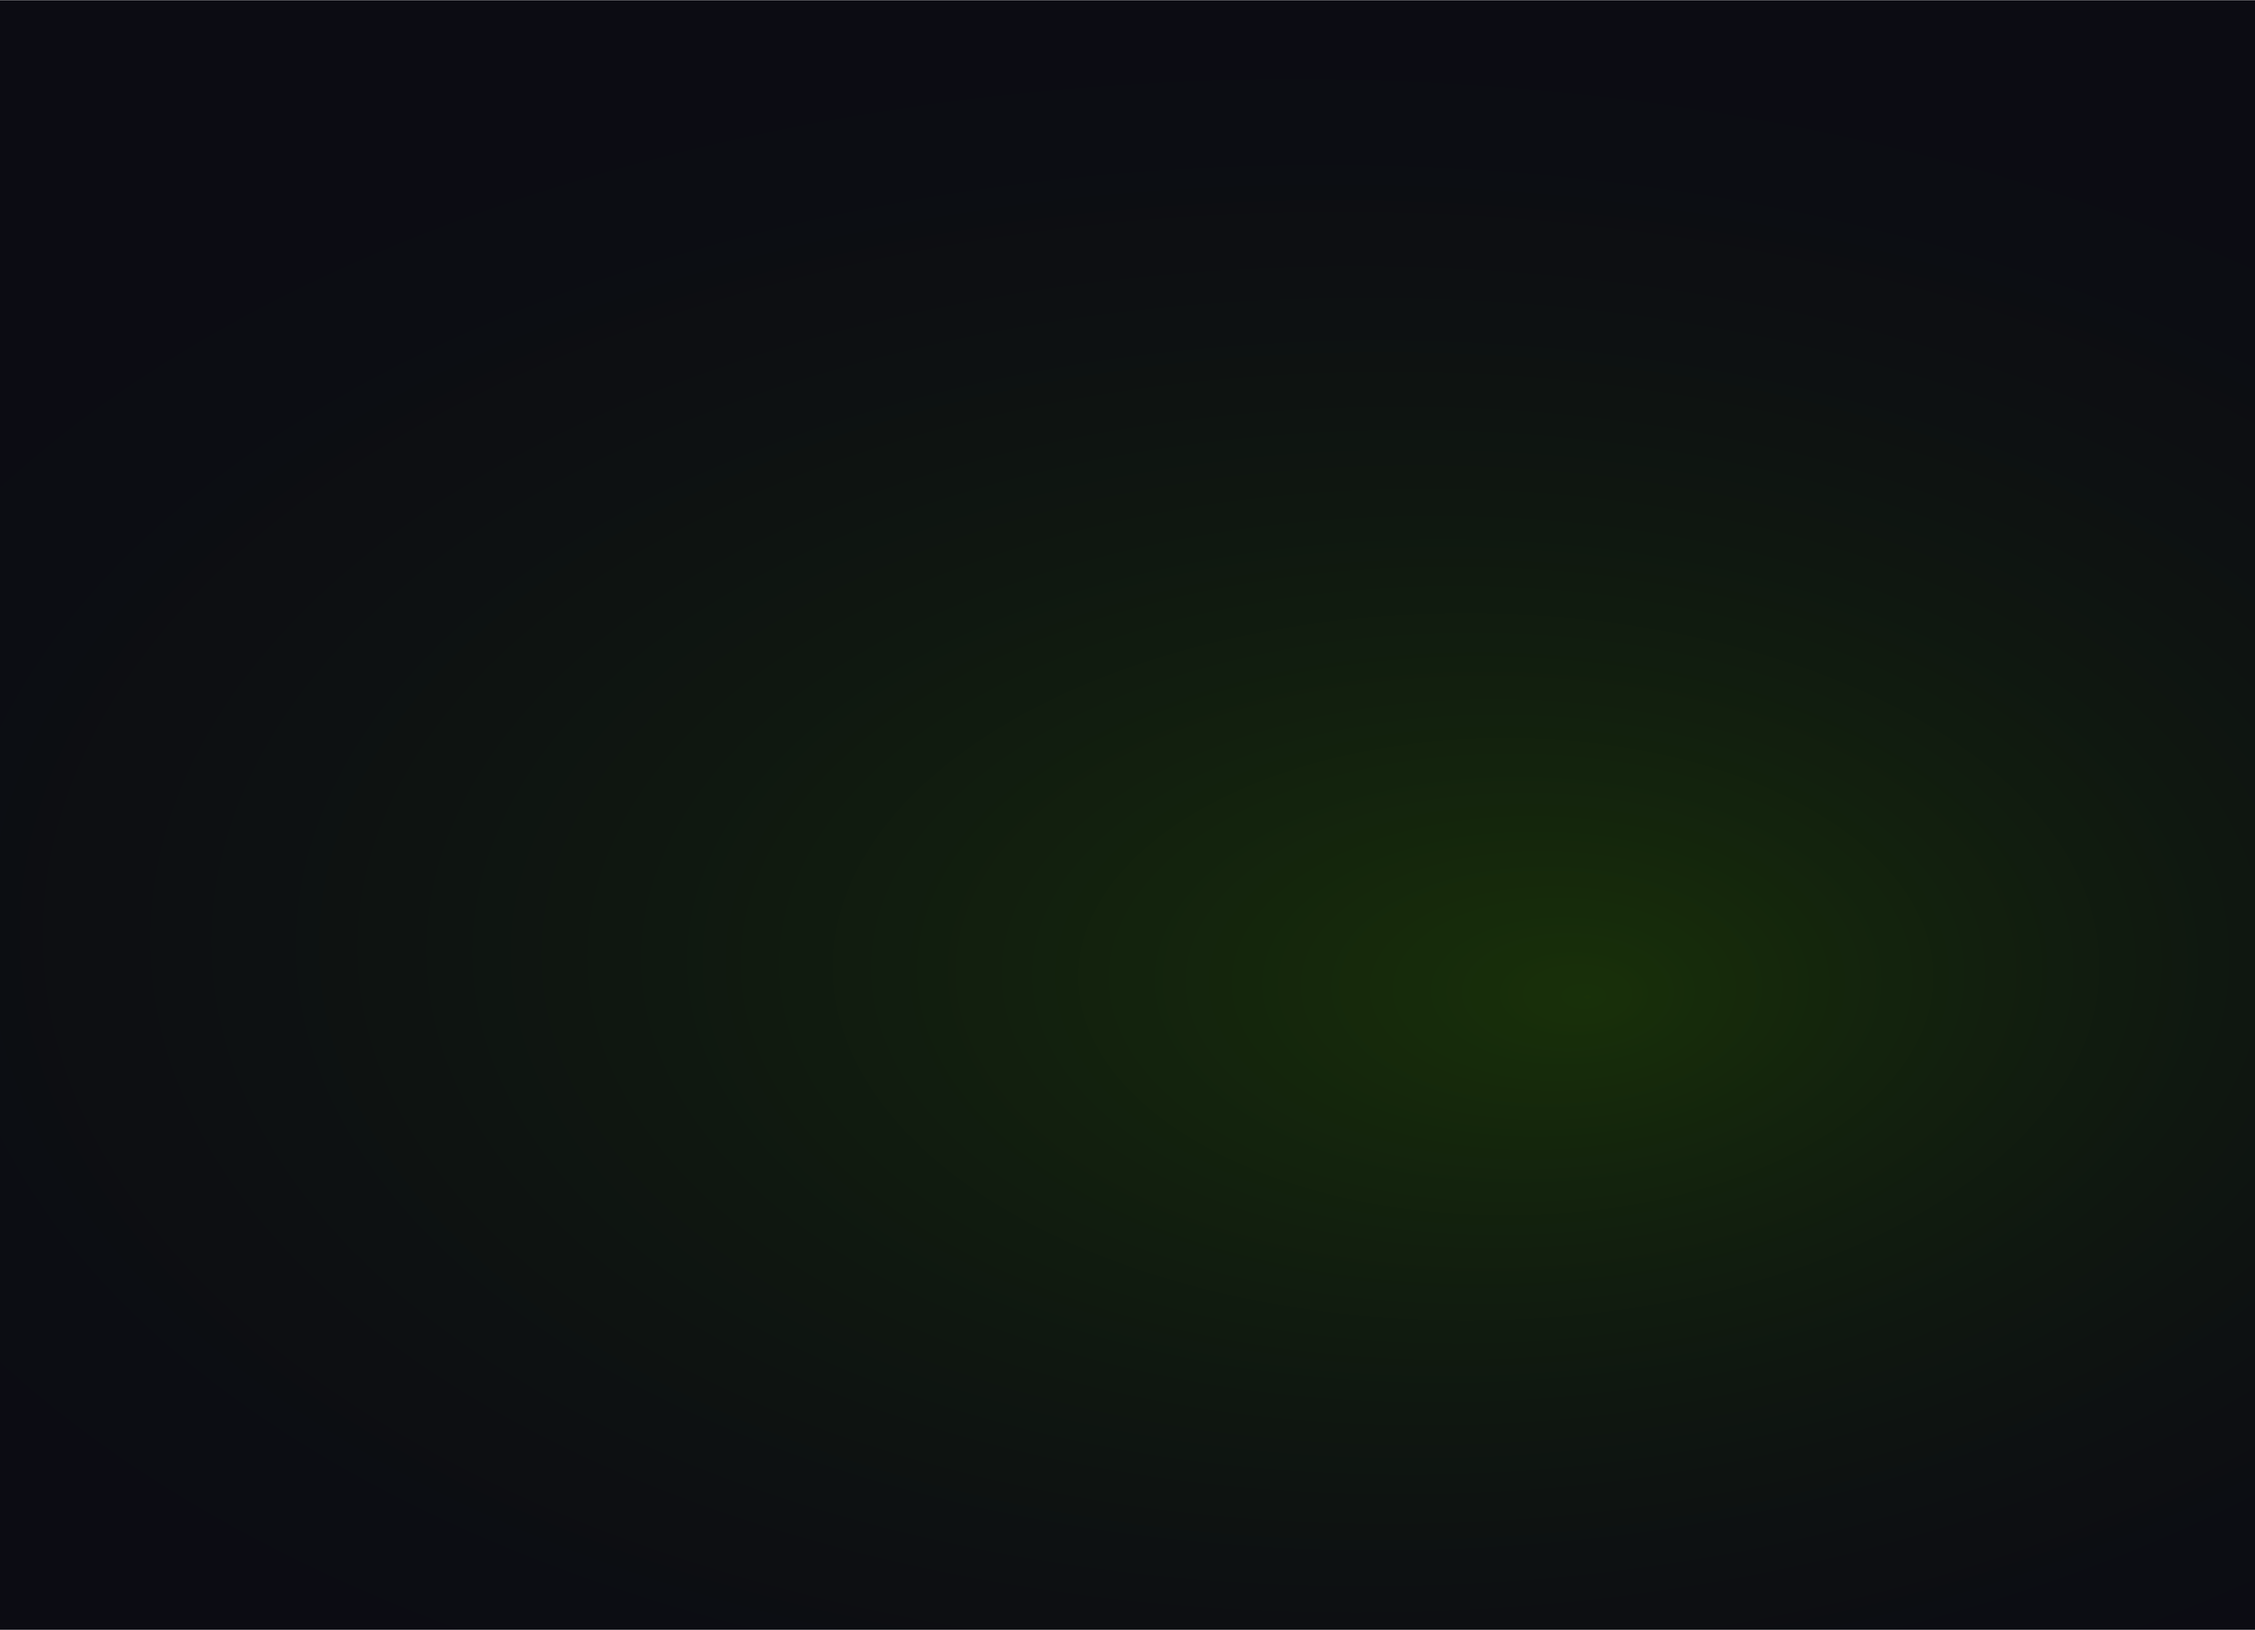
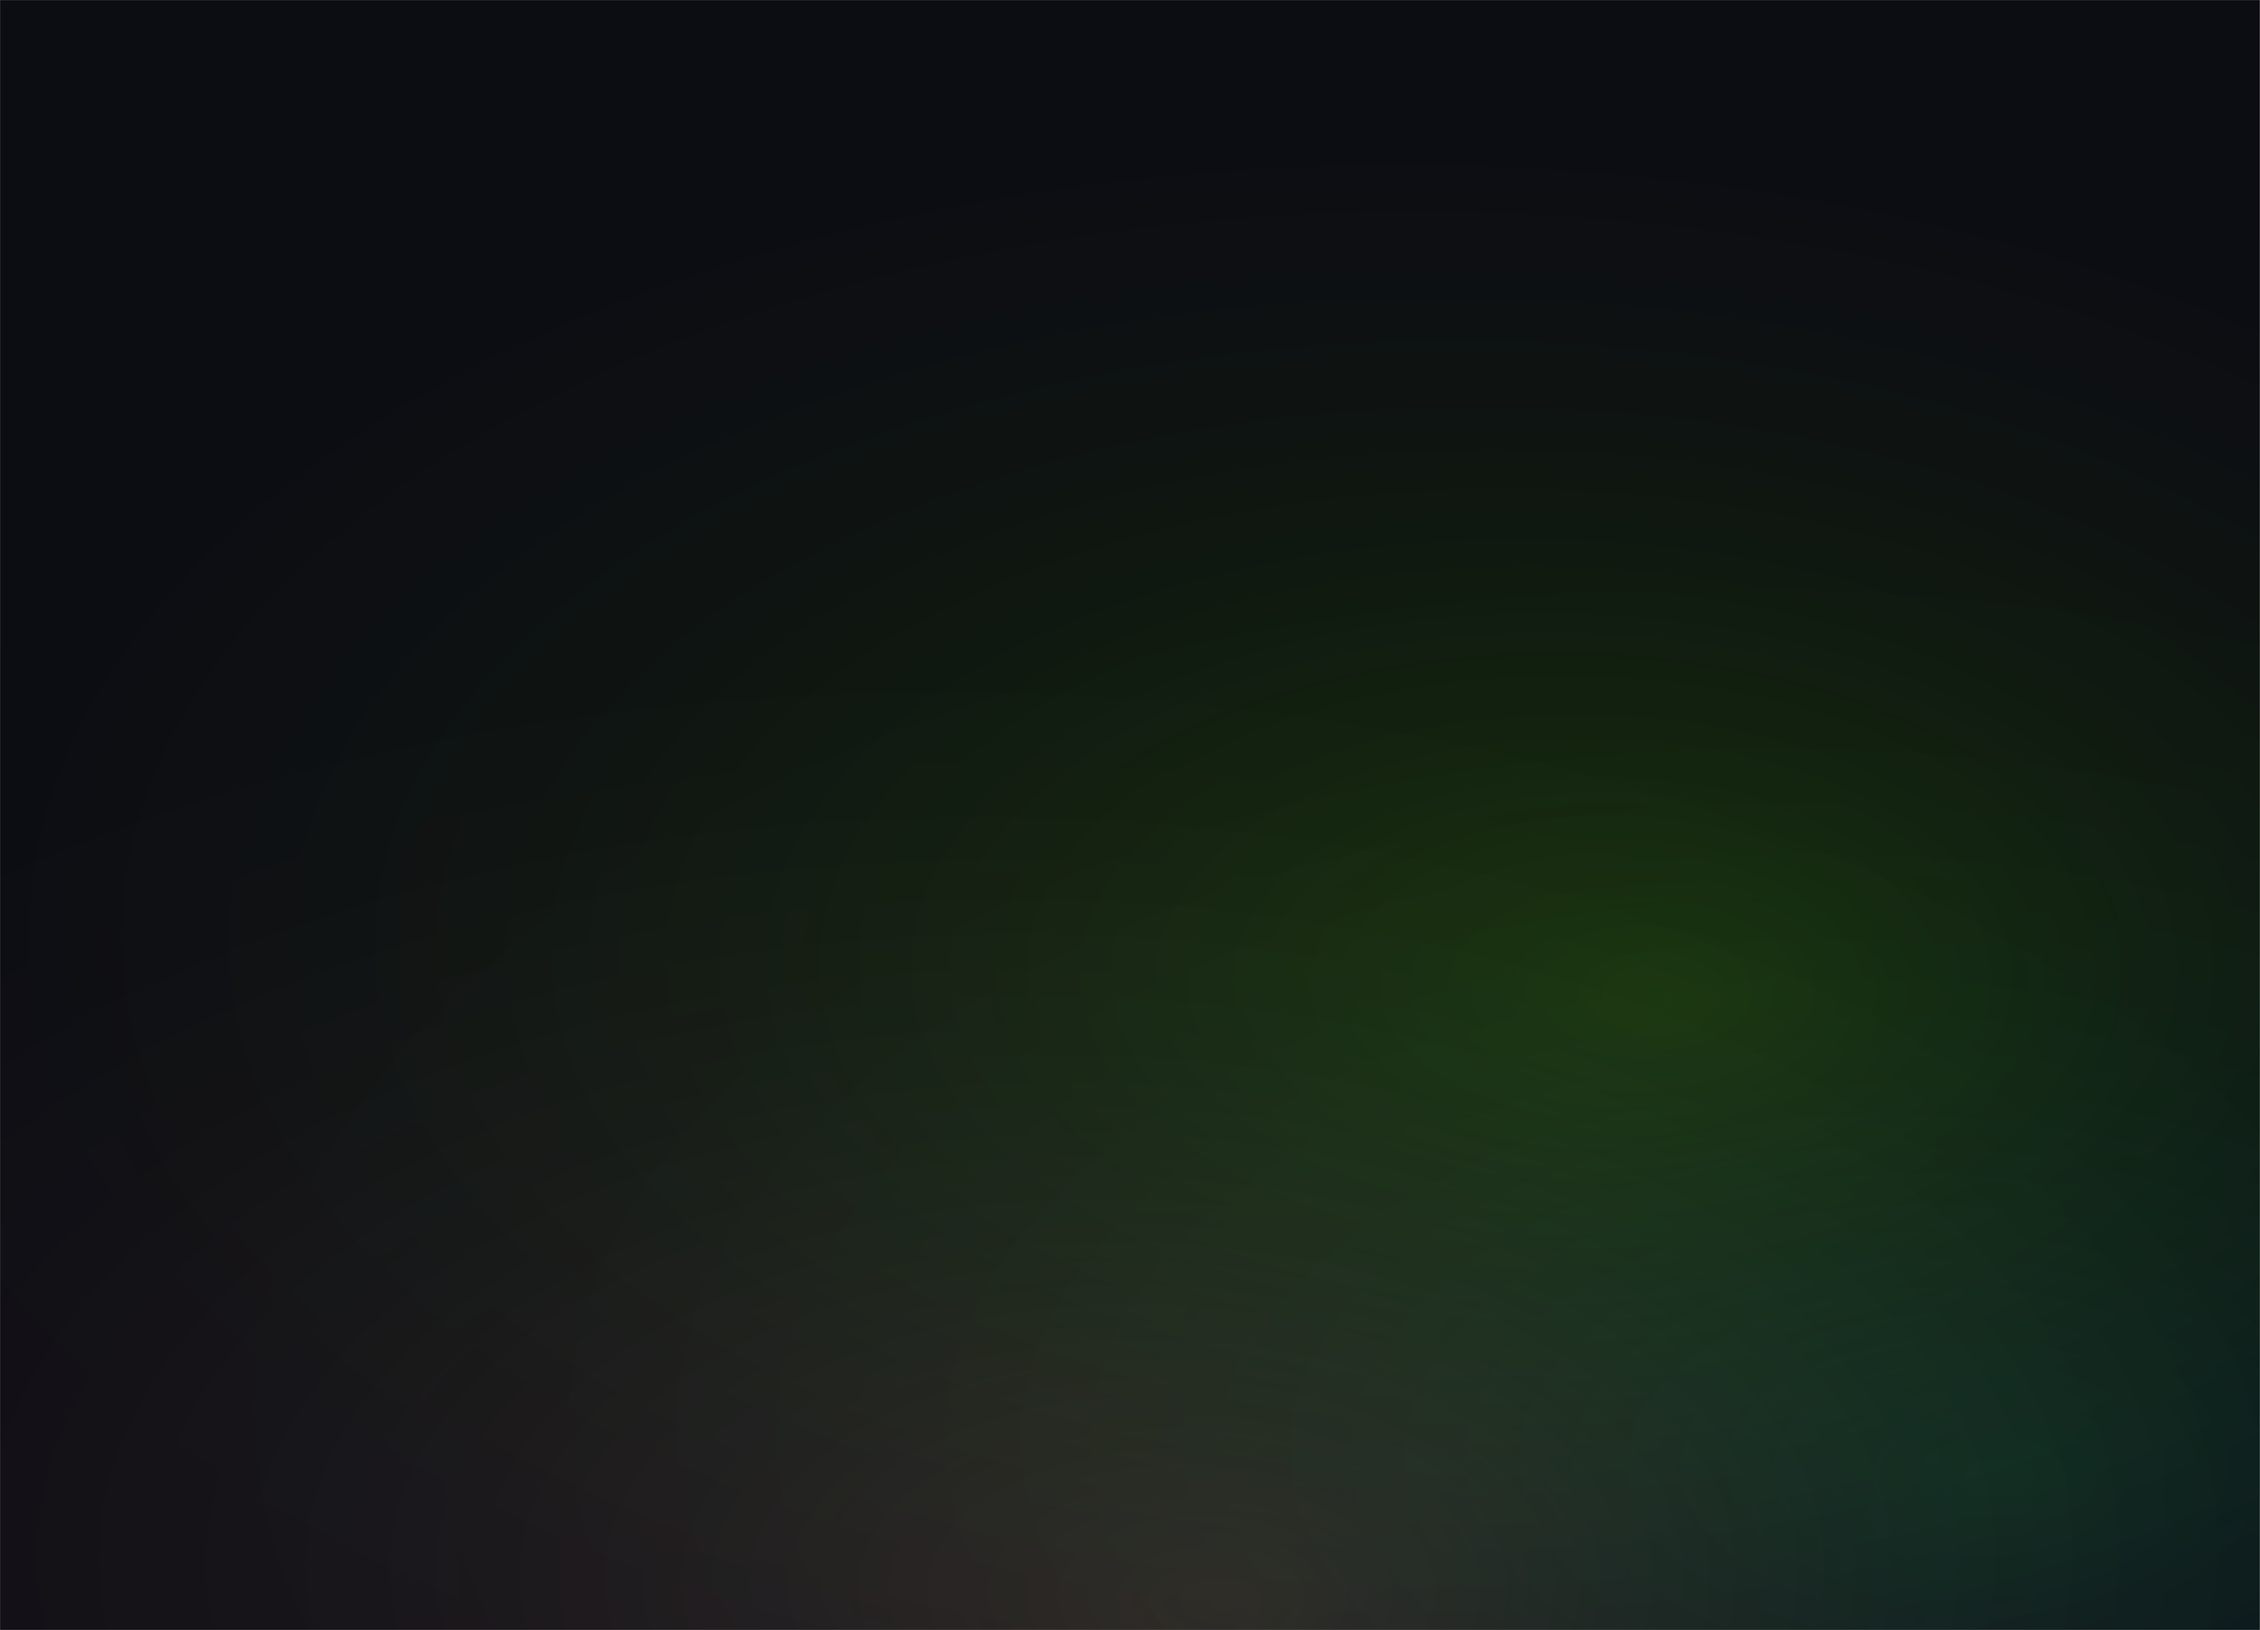
O nas - zmiany 17:53

Changed region(s): [[0.3744, 0.8091, 0.936, 1.0], [0.9984, 0.9959, 1.0, 1.0]]

diff --git a/src/pages/about.js b/src/pages/about.js
@@ -27,30 +27,32 @@ export default function Home() {
           <Navbar />
 
         <div className="container mx-auto px-4">
-          <div className="py-16 rounded-3xl" style={{ backgroundImage: `url(${aboutBG})`, backgroundRepeat: "no-repeat", backgroundPosition: "center center", backgroundColor: "#0c0c14", backgroundSize: "100% auto" }}>
-          
-            <div className="mx-auto my-32 px-16 text-white text-center">
-              <p className="text-2xl">Poznaj nas</p>
-              <h1 className="mb-0 text-6xl font-bold">Jesteśmy, aby pomóc w rozwoju</h1>
-              <h1 className="mt-3 my-10 text-6xl font-bold">Twojego biznesu w sieci.</h1>
-            </div>
-
-            <div className="flex flex-row flex-wrap text-white py-32">
-              <div className="w-5/12">
-                <div className="px-16 py-10">
-                  <p className="text-2xl">Nic nadzwyczajnego, kilku młodych chłopaków, którzy przez parę lat doświadczeń, rozwijania własnych linii produktowych i dziesiątek godzin spędzonych na nauce systemów E-commerce chcą pomagać rozwijać się innym.</p>
-                </div>
-                <div className="mt-2 px-16 py-10">
-                  <h3 className="text-4xl font-bold">Łatwo, naturalnie i z ludzkim podejściem do innych.</h3>
-                </div>
+          <div className="rounded-3xl" style={{ backgroundImage: `url(${aboutBG})`, backgroundRepeat: "no-repeat", backgroundPosition: "bottom right", backgroundColor: "#0c0c14", backgroundSize: "100% auto" }}>
+            <div className="py-16">
+              
+              <div className="mx-auto my-32 px-16 text-white text-center">
+                <p className="text-2xl">Poznaj nas</p>
+                <h1 className="mb-0 text-6xl font-bold">Jesteśmy, aby pomóc w rozwoju</h1>
+                <h1 className="mt-3 my-10 text-6xl font-bold">Twojego biznesu w sieci.</h1>
               </div>
-              <div className="w-2/12"></div>
-              <div className="w-4/12">
-                  <img src={`${plane}`} width="100%" />
-              </div>
-              <div className="w-1/12"></div>
-            </div>
 
+              <div className="flex flex-row flex-wrap text-white py-32">
+                <div className="w-5/12">
+                  <div className="pl-16 py-10">
+                    <p className="text-2xl">Nic nadzwyczajnego, kilku młodych chłopaków, którzy przez parę lat doświadczeń, rozwijania własnych linii produktowych i dziesiątek godzin spędzonych na nauce systemów E-commerce chcą pomagać rozwijać się innym.</p>
+                  </div>
+                  <div className="mt-2 pl-16 py-10">
+                    <h3 className="text-4xl font-bold">Łatwo, naturalnie i z ludzkim podejściem do innych.</h3>
+                  </div>
+                </div>
+                <div className="w-2/12"></div>
+                <div className="w-4/12">
+                    <img src={`${plane}`} width="100%" />
+                </div>
+                <div className="w-1/12"></div>
+              </div>
+
+            </div>
           </div>
         </div>
 
